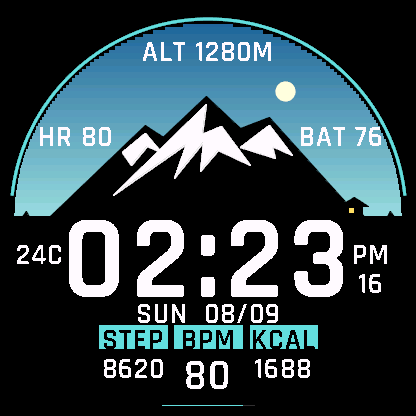
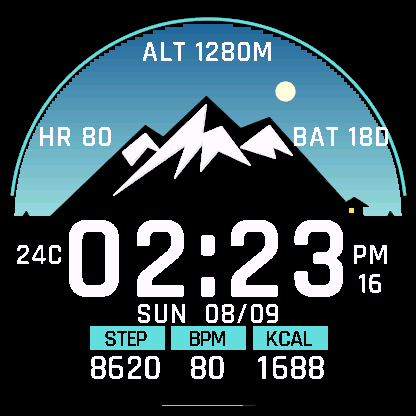
fix: refine Alpine details and display battery days

Changed region(s): [[0.2188, 0.7812, 0.8125, 0.9375], [0.6875, 0.2812, 0.9375, 0.375]]

diff --git a/alpine/tools/generate.py b/alpine/tools/generate.py
@@ -26,6 +26,46 @@ def font(out,name,height,chars,bold=False):
         rows.append(f'char id={ord(ch)} x={cell*i} y=0 width={im.width} height={line} xoffset=0 yoffset=0 xadvance={im.width+max(1,round(height*.07))} page=0 chnl=15')
     atlas.save(out/(name+'.png'));(out/(name+'.fnt')).write_text('\n'.join(rows)+'\n')
 
+def precise_font(out,name,height,chars,max_width=None):
+    # Fit the whole character set to an exact ink height and a shared baseline.
+    # Numeric advances are equal: 80 and 8620 use the same cap height and baseline.
+    size=1
+    def bounds(n):
+        f=ImageFont.truetype(str(FONT),n)
+        boxes=[f.getbbox(c) for c in chars if c!=' ']
+        return f,min(b[1] for b in boxes),max(b[3] for b in boxes)
+    def fits(n):
+        f,top,bottom=bounds(n)
+        if bottom-top>height:return False
+        if max_width is None:return True
+        widths=[]
+        for c in '0123456789':
+            box=f.getmask(c).getbbox();widths.append(box[2]-box[0])
+        return 4*(max(widths)+1)<=max_width
+    while fits(size+1):size+=1
+    f,top,bottom=bounds(size);line=bottom-top
+    # Font advance boxes contain side bearings; fit actual raster ink, not padding.
+    ink=[]
+    for c in chars:
+        box=f.getbbox(c);im=Image.new('RGBA',(max(1,box[2]-box[0]),line))
+        ImageDraw.Draw(im).text((-box[0],-top),c,font=f,fill='white')
+        im.putalpha(im.getchannel('A').point(lambda v:255 if v>=105 else 0))
+        bounds=im.getchannel('A').getbbox()
+        im=im.crop((bounds[0],0,bounds[2],line)) if bounds else Image.new('RGBA',(max(2,round(height*.25)),line))
+        ink.append((c,im))
+    digit_width=max(im.width for c,im in ink if c.isdigit())
+    glyphs=[]
+    for c,im in ink:
+        width=digit_width if c.isdigit() else im.width
+        cell_image=Image.new('RGBA',(width,line));cell_image.paste(im,((width-im.width)//2,0))
+        glyphs.append((c,cell_image))
+    cell=max(im.width for _,im in glyphs)+2;atlas=Image.new('RGBA',(cell*len(chars),line));rows=[]
+    for i,(c,im) in enumerate(glyphs):
+        atlas.paste(im,(i*cell,0))
+        rows.append(f'char id={ord(c)} x={i*cell} y=0 width={im.width} height={line} xoffset=0 yoffset=0 xadvance={im.width+1} page=0 chnl=15')
+    atlas.save(out/(name+'.png'))
+    (out/(name+'.fnt')).write_text(f'info face="Alpine Rajdhani" size={line} bold=0 italic=0 unicode=1 smooth=0 aa=1\ncommon lineHeight={line} base={line} scaleW={atlas.width} scaleH={line} pages=1 packed=0\npage id=0 file="{name}.png"\nchars count={len(chars)}\n'+'\n'.join(rows)+'\n')
+
 def generate():
     jungle=['project.manifest = manifest.xml','base.sourcePath = source;live','base.resourcePath = resources']
     profiles=[]
@@ -35,6 +75,9 @@ def generate():
         out=ROOT/'generated'/device;res=out/'resources';fonts=res/'fonts';fonts.mkdir(parents=True,exist_ok=True)
         sizes={'Time':round(35*scale if mono else 49*scale),'Small':max(7,round(9*scale if mono else 13*scale)),'Data':round(13*scale if mono else 19*scale),'Circle':round(20*scale),'Aod':round(21*scale)}
         for name,height in sizes.items():font(fonts,name,height,'0123456789:-' if name in ('Time','Circle','Aod') else ' ABCDEFGHIJKLMNOPQRSTUVWXYZ0123456789-:.%/',name in ('Time','Circle'))
+        for name,height in [('Label',max(7,round((8 if mono else 11)*scale))),('Metric',int((12 if mono else 15)*scale))]:
+            precise_font(fonts,name,height,'0123456789-:.DKM' if name=='Metric' else ' ABCDEFGHIJKLMNOPQRSTUVWXYZ0123456789-:.',round((37 if mono else 45)*scale) if name=='Metric' else None)
+            sizes[name]=height
         (fonts/'fonts.xml').write_text('<fonts>'+''.join(f'<font id="{n}" filename="{n}.fnt"/>' for n in sizes)+'</fonts>')
         loc=s['display']['location'];sub=s.get('subscreen');cx=cy=radius=0
         if sub:
@@ -60,7 +103,7 @@ def generate():
     for mode in ['preview','tests']:
         for device in DEVICES:
             rel=f'generated/{device}/{mode}-manifest.xml'
-            ident=uuid.uuid5(uuid.NAMESPACE_DNS,f'wristink.alpine.{mode}.{device}').hex
+            ident=uuid.uuid5(uuid.NAMESPACE_DNS,f'wristink.alpine.detail6.{mode}.{device}').hex
             source=(ROOT/mode/'manifest.xml').read_text()
             old='bb71078cce15417aa5425aa350817002' if mode=='preview' else 'bb71078cce15417aa5425aa350817003'
             (ROOT/rel).write_text(source.replace(old,ident))

diff --git a/alpine/tools/package_local.py b/alpine/tools/package_local.py
@@ -1,0 +1,36 @@
+"""Package signed per-device PRGs and actual simulator evidence for local review."""
+from pathlib import Path
+from PIL import Image,ImageDraw,ImageFont
+import hashlib,json,shutil,zipfile
+R=Path(__file__).resolve().parents[1];E=R/'dist/evidence';D=R/'docs';version='1.0.1'
+for name in ['instinct3-native','instinct2s-native','fenix7-native','epix2-native','epix2-night']:
+ shutil.copy2(E/(name+'.png'),D/(name+'.png'))
+board=Image.new('RGB',(1280,520),(14,19,23));draw=ImageDraw.Draw(board)
+f=ImageFont.truetype(str(R/'assets/fonts/Rajdhani-SemiBold.ttf'),25);small=ImageFont.truetype(str(R/'assets/fonts/Rajdhani-SemiBold.ttf'),17)
+for title,filename,left,width,scale in [('INSTINCT 3 SOLAR','instinct3-native',0,400,2),('AMOLED / DAY','epix2-native',416,416,1),('AMOLED / NIGHT','epix2-night',848,416,1)]:
+ draw.text((left+18,14),title,font=f,fill='white');im=Image.open(E/(filename+'.png')).convert('RGB');im=im.resize((im.width*scale,im.height*scale),Image.Resampling.NEAREST)
+ board.paste(im,(left+(width-im.width)//2,55+(416-im.height)//2));draw.text((left+18,481),'SIMULATOR / DEMO DATA'+(' / 2X' if scale==2 else ' / 1X'),font=small,fill=(154,175,183))
+board.save(D/'preview-board.png');board.save(D/'preview-details.png')
+manifest=[]
+for p in sorted((R/'bin').glob('*-live.prg')):
+ target=R/'dist'/p.name;shutil.copy2(p,target);manifest.append({'file':target.name,'bytes':target.stat().st_size,'sha256':hashlib.sha256(target.read_bytes()).hexdigest()})
+assert len(manifest)==6
+(R/'dist/SHA256SUMS').write_text(''.join(x['sha256']+'  '+x['file']+'\n' for x in manifest))
+(R/'dist/builds.json').write_text(json.dumps(manifest,indent=2)+'\n')
+(R/'dist/INSTALL.txt').write_text(f'''山境 Alpine {version} 本地修订版
+
+选择与设备对应的 -live.prg，USB 连接手表，复制到 GARMIN/APPS/，安全断开后在表盘菜单选择山境。
+instinct3solar45mm = 本能 3 Solar 45/50 mm
+instinct2 / instinct2s / instinct2x = 本能 2 / 2S / 2X
+fenix7 = fēnix 7；epix2 = epix Gen 2
+这些文件不能跨机型安装。
+本能圆窗默认心率；电池显示为系统预计剩余天数，缺失时为 --D。
+只有编译和官方模拟器验证，未完成真机安装与长期续航测量，未上架商店。
+''')
+archive=R/f'dist/WristInk-Alpine-{version}-local.zip'
+with zipfile.ZipFile(archive,'w',zipfile.ZIP_DEFLATED) as z:
+ for p in sorted((R/'dist').glob('*-live.prg')):z.write(p,p.name)
+ for name in ['SHA256SUMS','INSTALL.txt','builds.json']:z.write(R/'dist'/name,name)
+ z.write(D/'validation.md','validation.md');z.write(D/'preview-board.png','preview.png')
+ for p in sorted(D.glob('*-native.png')):z.write(p,'screens/'+p.name)
+print(archive)

diff --git a/alpine/tools/settings.py b/alpine/tools/settings.py
@@ -1,8 +1,8 @@
 from pathlib import Path
 from xml.sax.saxutils import escape
 R=Path(__file__).resolve().parents[1]
-fields=[('TimeFormat',0,'Time format','时间格式',['System','12 hour','24 hour'],['跟随系统','12 小时','24 小时']),('Scene',0,'Landscape','山景',['Automatic','Dawn','Day','Dusk','Night','Rain','Volcano','Lightning','Rainbow','Fireworks'],['自动','黎明','白昼','黄昏','夜晚','雨景','火山','闪电','彩虹','烟花']),('Circle',0,'Instinct circle','本能圆窗',['Heart rate','Battery','Stress'],['心率','电量','压力']),('Smart',True,'Smart scenes','智能场景',None,None),('Seconds',True,'Seconds when awake','抬腕显示秒数',None,None),('LowBattery',20,'Low battery threshold (%)','低电量阈值（%）',None,None),('StressLimit',75,'Stress threshold','压力阈值',None,None)]
-for key,title,cn,default in [('Left','Left data','左侧数据',0),('Middle','Middle data','中间数据',1),('Right','Right data','右侧数据',2)]:fields.append((key,default,title,cn,['Steps','Heart rate','Calories','Altitude','Battery','Distance'],['步数','心率','总热量','海拔','电量','距离']))
+fields=[('TimeFormat',0,'Time format','时间格式',['System','12 hour','24 hour'],['跟随系统','12 小时','24 小时']),('Scene',0,'Landscape','山景',['Automatic','Dawn','Day','Dusk','Night','Rain','Volcano','Lightning','Rainbow','Fireworks'],['自动','黎明','白昼','黄昏','夜晚','雨景','火山','闪电','彩虹','烟花']),('Circle',0,'Instinct circle','本能圆窗',['Heart rate','Battery days','Stress'],['心率','剩余天数','压力']),('Smart',True,'Smart scenes','智能场景',None,None),('Seconds',True,'Seconds when awake','抬腕显示秒数',None,None),('LowBattery',20,'Low battery threshold (%)','低电量阈值（%）',None,None),('StressLimit',75,'Stress threshold','压力阈值',None,None)]
+for key,title,cn,default in [('Left','Left data','左侧数据',0),('Middle','Middle data','中间数据',1),('Right','Right data','右侧数据',2)]:fields.append((key,default,title,cn,['Steps','Heart rate','Calories','Altitude','Battery days','Distance'],['步数','心率','总热量','海拔','剩余天数','距离']))
 props=[];settings=[];en=['<string id="AppName">WristInk Alpine</string>'];zh=['<string id="AppName">山境 Alpine</string>']
 for key,default,title,cn,opts,cnopts in fields:
  typ='boolean' if isinstance(default,bool) else 'number';props.append(f'<property id="{key}" type="{typ}">{str(default).lower()}</property>');en.append(f'<string id="{key}">{escape(title)}</string>');zh.append(f'<string id="{key}">{escape(cn)}</string>')

diff --git a/alpine/tools/scenario.py b/alpine/tools/scenario.py
@@ -5,7 +5,7 @@ from generate import generate, ROOT, DEVICES
 p=argparse.ArgumentParser();p.add_argument('device',choices=DEVICES);p.add_argument('scene',type=int,choices=range(1,10));a=p.parse_args()
 generate();dest=ROOT/'generated/scenarios'/f'{a.device}-{a.scene}';dest.mkdir(parents=True,exist_ok=True)
 (dest/'Mode.mc').write_text(f'module Mode {{const DEMO=true;const SCENE={a.scene};}}\n')
-manifest=(ROOT/'manifest.xml').read_text().replace('bb71078cce15417aa5425aa350817001',uuid.uuid5(uuid.NAMESPACE_DNS,f'wristink.alpine.{a.device}.{a.scene}').hex)
+manifest=(ROOT/'manifest.xml').read_text().replace('bb71078cce15417aa5425aa350817001',uuid.uuid5(uuid.NAMESPACE_DNS,f'wristink.alpine.detail6.{a.device}.{a.scene}').hex)
 (dest/'manifest.xml').write_text(manifest)
 rel=dest.relative_to(ROOT)
 jungle=(ROOT/'monkey.jungle').read_text().replace('project.manifest = manifest.xml',f'project.manifest = {rel}/manifest.xml').replace('base.sourcePath = source;live',f'base.sourcePath = source;{rel}')

diff --git a/alpine/README.md b/alpine/README.md
@@ -2,10 +2,10 @@
 
 雪山剪影、大字时间与三栏数据的独立 Garmin Connect IQ 表盘。参考用户提供的 Forester X 展示图重新绘制山峰、树林、天空和小屋，不复用原作品牌或位图。
 
-- **本能系列**：为硬件圆窗独立排版，右上默认显示心率，可切换电量或压力。
+- **本能系列**：为硬件圆窗独立排版，右上默认显示心率，可切换剩余天数或压力。
 - **圆形彩屏**：原生尺寸雪山与渐变天空，晨、昼、昏、夜四种时段；太阳沿示意轨迹移动，夜间显示近似月相。
 - **智能场景**：低电量闪电 → 高压力火山 → 雨天 → 步数达标彩虹/夜间烟花，按此顺序选择。每种也可手动选用。场景是静态插画，不循环播放动画。
-- **数据**：底部三栏各可选择步数、心率、总热量、海拔、电量、距离；有未读通知时小屋亮灯。
+- **数据**：底部三栏各可选择步数、心率、总热量、海拔、预计续航天数、距离；有未读通知时小屋亮灯。
 - **时间**：跟随系统或独立 12/24 小时制，秒数仅在唤醒时更新。AMOLED 休眠显示独立低亮时钟。
 - **设置**：英文默认、简体中文覆盖；显示单位跟随手表。表盘指标使用紧凑英文缩写。
 
@@ -23,7 +23,7 @@
 
 ## 数据与刷新
 
-心率读取系统当前值，缺失时使用 180 秒内的历史样本；唤醒时每 5 秒检查一次。步数、总热量、电池、海拔与距离按分钟读取。压力仅使用支持设备上 5 分钟内的系统压力历史；海拔历史回退最多 15 分钟。缺失值显示 `--`，零和负海拔有效。
+心率读取系统当前值，缺失时使用 180 秒内的历史样本；唤醒时每 5 秒检查一次。步数、总热量、电池、海拔与距离按分钟读取。电池显示使用系统 `batteryInDays`：10 天及以上显示整数天，10 天以下保留一位小数；缺失/旧接口显示 `--D`，不从百分比推算。低电量场景仍按设置中的百分比阈值触发。压力仅使用支持设备上 5 分钟内的系统压力历史；海拔历史回退最多 15 分钟。缺失值显示 `--`，零和负海拔有效。
 
 天气每 5 分钟读取 Garmin 缓存，拒绝超过 3 小时或未来的观测。位置仅读取 2 小时内的已有定位，或有效天气的位置；不主动启动 GPS，不发网络请求。官方日出日落 API 存在且位置有效时使用它，否则用 06:00/18:00 作为**画面时段回退**，不把它显示为实际日出日落。太阳位置是弧形示意，不是精确太阳高度角；月相为平均朔望周期近似。
 

diff --git a/alpine/docs/validation.md b/alpine/docs/validation.md
@@ -1,4 +1,20 @@
-# 山境 1.0 初版验证 — 2026-11-03
+# 山境验证记录 — 2026-11-03
+
+## 1.0.1 细节修订
+
+按用户红框修订：本能圆窗改为圆形留空，移开相邻太阳并清除矩形清底造成的碎边；主时间字体保持不变。底部增加独立 Label / Metric 字体，按实际墨迹裁去侧边空白、统一数字字宽与基线；整行共同决定是否采用较小字体，不再单独缩小四位数。标签留出上下空白，fēnix 7 按原生字体基线单独校正。夜景烟花避开海拔文字。
+
+所有电池显示使用 `System.getSystemStats().batteryInDays`，按分钟读取。运行时检查字段存在与非负有效值；不支持、null、负值显示 `--D`。10 天及以上取整数天，10 天以下显示一位小数。系统电池百分比只用于已有低电量情景阈值，不用于估算天数；设置中的“电量”选项改名“剩余天数”，属性键保持兼容，圆窗默认仍为心率。
+
+六个 SDK 目标正式编译通过；Instinct 2S / Instinct 3 Solar / epix2 各 11 项原生回归通过，新增系统续航估计缺失字段、null、负值、0、2.5、18.4 天及禁止百分比回填的覆盖。逻辑回归之后仅调整字体尺寸、绘制位置与预览 ID，未改变取值/格式化逻辑。
+
+原生截图重新检查四种画布：176×176、163×156、260×260、416×416，含 AMOLED 夜景。当前 `*-native.png`、`epix2-night.png` 和 `preview-board.png` 为本轮实际模拟器输出、演示数据。四位数默认指标无需降字号：Instinct 3 的文字宽 36px / 可用 37px，2S 为 32 / 33px，fēnix 为 40 / 45px，epix 为 72 / 72px；同一行三项保持同一字体与基线。
+
+本轮不重跑未修改的 AOD 策略；下方 AOD 截图和内存表是 1.0 的历史证据。没有真机续航测试或商店发布。旧效果仍可通过 Git 上一提交查看，不能以测试通过代替用户的视觉接受。
+
+---
+
+## 1.0 初版历史验证
 
 ## 范围
 
